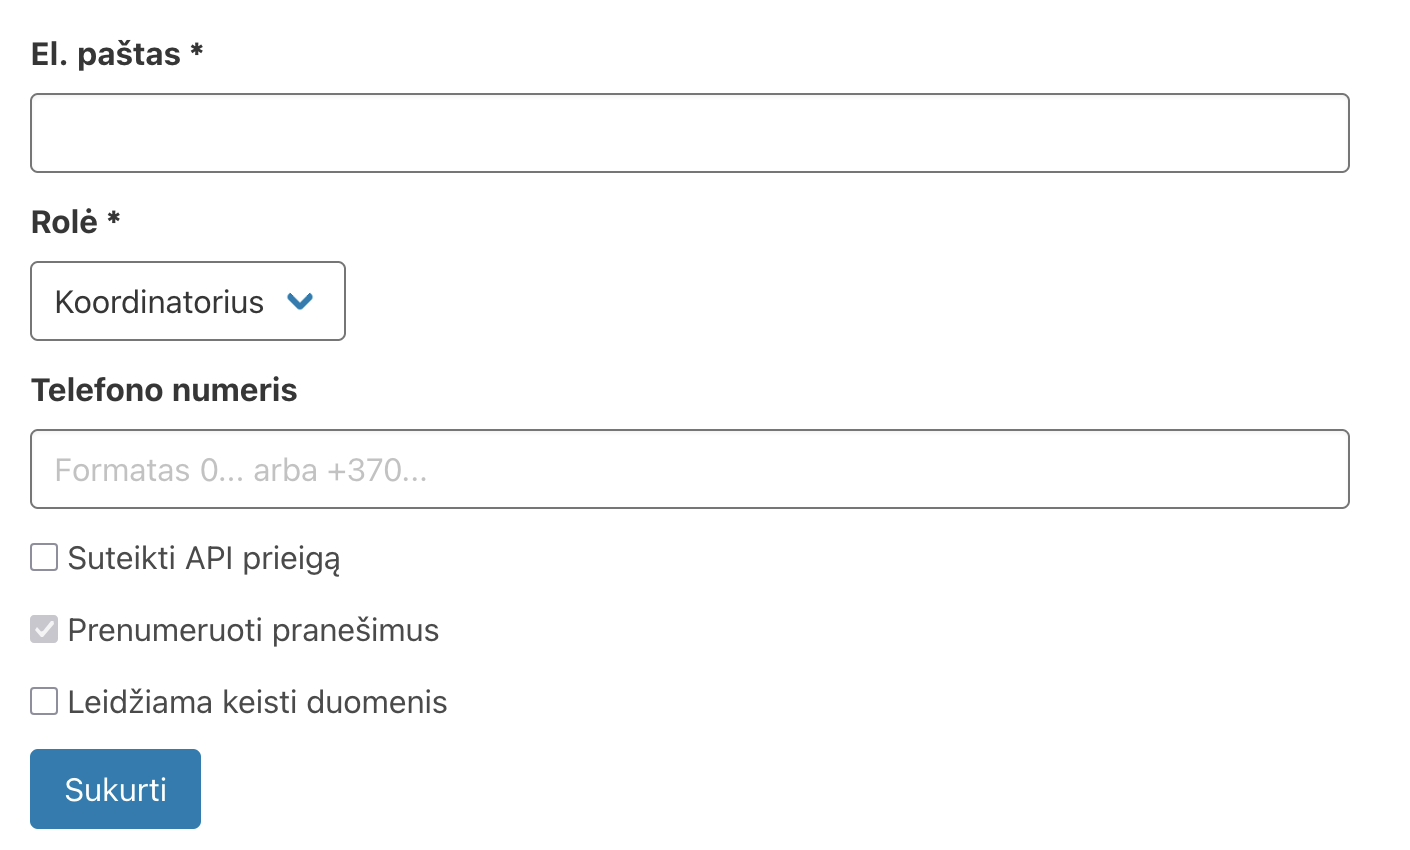
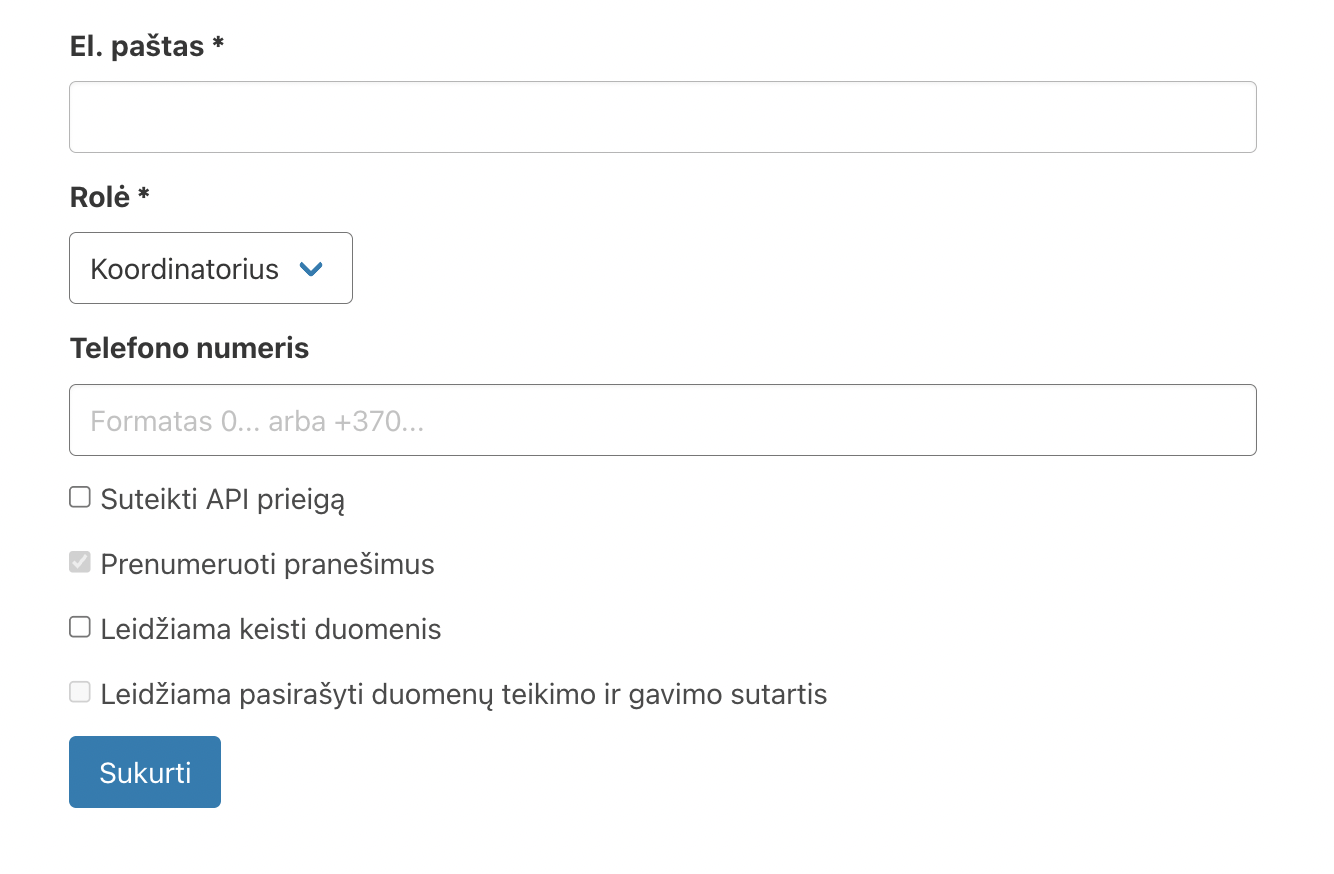
2016: Document Project permissions based on VIISP authorization

diff --git a/vadovas/katalogas.rst b/vadovas/katalogas.rst
@@ -382,6 +382,8 @@ Organizacijos rekvizitai
 
 2. Spauskite **[Redaguoti organizaciją]**.
 
+*Pastaba: Šį veiksmą gali atlikti tik koordinatorius, organizacijos vardu prisijungęs per VIISP.*
+
 | |organizacijos_informacija|
 | *26 pav. Organizacijos redagavimo langas*
 
@@ -854,6 +856,19 @@ Duomenų ištekliaus rūšies forma
 
 7. Įsitikinkite, kad įvedėte teisingus duomenis ir spauskite **[Sukurti]**.
 
+Panaudojimo atvejai
+===================
+
+
+| |duomenu_isteklio_panaudojimo_atvejai|
+| Duomenų ištekliaus panaudojimo atvejų sąrašas
+
+Čia matomi visi* panaudojimo atvejai, kurie gauna duomenis iš šio ištekliaus.
+Mygtukas [*Pridėti panaudojimo atvejį*] matomas tik tuo atveju, jeigu turite panaudojimo atvejų, į kurį turite teisę įtraukti šį išteklių.
+Pašalinti galite tik tuos atvejus, kurie neturi sugeneruotų sutarčių.
+Plačiau :ref:`panaudojimo_atvejo_istekliai`
+
+*- Kuriuos turite teisę peržiūrėti. Apie teises skaitykite čia :ref:`panaudojimo_atvejo_perziura`
 
 Duomenų rinkinio forma
 **********************
@@ -1724,6 +1739,73 @@ Plano patvirtinimas organizacijos vardu
 Panaudojimo atvejai
 *******************
 
+.. _panaudojimo_atveju_sarasas:
+
+Panaudojimo atvejų sąrašas
+==========================
+
+Šiame sąraše galite matyti visus panaudojimo atvejus, kurie atitinka bent vieną iš šių kriterijų:
+
+- Yra vieši ir patvirtinti
+- Yra sukurti Jūsų vardu (Panaudojimo atvejo iniciatorius yra Fizinis asmuo)
+- Panaudojimo atvejo duomenų gavėjas yra organzacija, kurią jūs atstovaujate
+- Panaudojimo atvejo duomenų teikėjų sąraše yra organizacija, kurią jūs atstovaujate.
+
+| |panaudojimo_atveju_sarasas|
+| *Panaudojimo atvejų sąrašas*
+
+.. _panaudojimo_atvejo_kurimas:
+
+Panaudojimo atvejo kūrimas
+==========================
+
+
+| |panaudojimo_atvejo_forma|
+| *Panaudojimo atvejo kūrimo forma*
+
+Panaudojimo atvejus kurti gali visi prisijungę naudotojai. 
+
+**Pastaba**: Laukas *[Panaudojimo atvejo iniciatorius]* matomas tik naudotojui, prisijungusiam per VIISP, kaip įgaliotam organizacijos atstovui, turinčiam teises sudaryti sutartis.
+Kitu atveju panaudojimo atveju organizacijos pasirinkti ir sudaryti sutarčių nebus galima.
+
+.. _panaudojimo_atvejo_perziura:
+
+Panaudojimo atvejo peržiūra
+===========================
+
+
+| |panaudojimo_atvejo_perziura|
+| *Panaudojimo atvejo langas*
+
+Panaudojimo atvejį galima peržiūrėti tik jeigu jis matomas viešai ir yra patvirtintas, 
+arba jeigu esate panaudojimo atvejo duomenų gavėjo arba teikėjo organizacijos atstovas.
+
+.. _panaudojimo_atvejo_redagavimas:
+
+Panaudojimo atvejo redagavimas
+==============================
+
+Panaudojimo atvejį redaguoti gali tik duomenų gavėjo organizacijos atstovas, organizacijos vardu prisijungęs per VIISP,
+turintis sutarčių pasirašymo teises.
+Keisti panaudojimo atvejo iniciatoriaus po panaudojimo atvejo sukūrimo - negalima.
+Negalima redaguoti panaudojimo atvejo, kuris turi sugeneruotų sutarčių.
+
+.. _panaudojimo_atvejo_istekliai:
+
+Panaudojimo atvejo duomenų ištekliai
+====================================
+
+| |panaudojimo_atvejo_duomenu_istekliai|
+| Panaudojimo atvejo duomenų išteklių sąrašas
+
+Šiame lange matomi visi duomenų ištekliai, iš kurių gaunami duomenys pagal pateiktą panaudojimo atvejį.
+Pridėti ir pašalinti duomenų išteklių prie/iš panaudojimo atvejo gali tik:
+
+- jo kūrėjas, jeigu panaudojimo atvejo iniciatorius Fizinis asmuo.
+- organizacijos atstovas, jeigu panaudojimo atvejo iniciatorius organizacija.
+
+Sugeneravus sutartis, pridėti ir pašalinti išteklių nebegalima.
+
 
 .. _sutartys:
 
@@ -1735,7 +1817,7 @@ Taip pat, automatiškai sukurti sutarties dokumentus, juos peržiūrėti, atsisi
 ir įkelti.
 
 **Pastaba:** Sutartys yra sudaromos atskirai su kiekviena pasirinktų duomenų
-šaltinių organizacija. *Pavyzdžiui:* pasirinkus tris duomenų rinkinius iš tos
+išteklių organizacija. *Pavyzdžiui:* pasirinkus tris duomenų rinkinius iš tos
 pačios organizacijos bus sukurta viena sutartis.
 
 
@@ -1744,6 +1826,7 @@ Sutarčių sąrašo peržiūra
 
 Sutarčių sąrašo formoje matysite visas sukurtas panaudojimo atvejo sutartis. Taip pat, kiekvienos
 sutarties duomenis teikiančią organizaciją, sutarties būseną ir paskutinį duomenų atnaujinimo laiką.
+Sutartis peržiūrėti gali tik teikiančios ir gaunančios organizacijos atstovai. Teikiančios organizacijos atstovas mato tik savo sutartis.
 
 | |image_panaudojimoatvejai_sutartys_1|
 | *Sutarčių sąrašo peržiūra*
@@ -1769,6 +1852,8 @@ Sutarties kūrimas
 
 Kurti sutartis (sutarties įrašus, kuriems vėliau bus galima kurti sutarties
 dokumentus) galima paspaudus mygtuką "Generuoti sutartis" dešiniajame viršutiniame kampe.
+Šį veiksmą gali atlikti tik gavėjo organizacijos atstovas, organizacijos vardu prisijungęs per VIISP,
+bei turintis sutarčių pasirašymo teises.
 
 Sutartys bus sukurtos kiekvienai organizacijai atskirai. Atsidariusioje formoje bus galima
 pasirinkti norimus leidimus iš kiekvieno organizacijos duomenų rinkinio.
@@ -1808,6 +1893,8 @@ Sutarties dokumento kūrimas ir pasirašytos sutarties įkėlimas
 ~~~~~~~~~~~~~~~~~~~~~~~~~~~~~~~~~~~~~~~~~~~~~~~~~~~~~~~~~~~~~
 
 Kurti arba įkelti pasirašytą sutartį galima spaudžiant mygtuką dešiniajame viršutiniame kampe.
+Šį veiksmą gali atlikti tik gavėjo ir teikėjo organizacijos atstovai, organizacijos vardu prisijungę per VIISP
+ir turintys sutarčių pasirašymo teises.
 
 Mygtuko veiksmas priklauso nuo sutarties būsenos:
 
@@ -1818,6 +1905,8 @@ Mygtuko veiksmas priklauso nuo sutarties būsenos:
 Sutarties *PDF* failo generavimas
 ~~~~~~~~~~~~~~~~~~~~~~~~~~~~~~~~~
 
+Šį veiksmą atlikti gali tik gavėjo organizacijos atstovas, organizacijos vardu prisijungęs per VIISP,
+turintis sutarčių pasirašymo teises.
 Prieš generuojant sutartį (paspaudus *„Generuoti sutartį“*), atvaizduojama forma su šablono pasirinkimu,
 bei papildoma informacija, kuri gali būti įtraukta į sutarties turinį, pavyzdžiui: papildomos sąlygos.
 Šioje formoje paspaudus mygtuką generuoti - bus sugeneruoti trys failai:
@@ -1830,6 +1919,15 @@ Sutarties *PDF* failo generavimo šablonai (*MD*)
 
 Kiekviena organizacija gali turėti savo sutarčių šabloną arba naudoti numatytąjį. 
 Šablonų administravimą atlieką sistemos administratorius.
+
+
+.. _klientai:
+
+Klientai
+========
+
+Klientus peržiūrėti gali tik gavėjo organizacijos atstovai.
+Klientus redaguoti gali tik gavėjo organizacijos atstovai, organizacijos vardu prisijungę per VIISP.
 
 .. _statistika:
 
@@ -2252,7 +2350,11 @@ Slaptažodis privalo būti saugus. (Daugiau: `Sąvokos <#naudojami-terminai-ir-s
 .. |teises_aprasymas| image:: /static/katalogas/okot/teises_aprasymas.png
 .. |dok_failai| image:: /static/katalogas/okot/dok_failai.png
 .. |dok_nuoroda| image:: /static/katalogas/okot/dok_nuoroda.png
-
+.. |panaudojimo_atvejo_forma| image:: /static/katalogas/okot/panaudojimo_atvejo_forma.png
+.. |panaudojimo_atveju_sarasas| image:: /static/katalogas/okot/panaudojimo_atveju_sarasas.png
+.. |panaudojimo_atvejo_perziura| image:: /static/katalogas/okot/panaudojimo_atvejo_perziura.png
+.. |duomenu_isteklio_panaudojimo_atvejai| image:: /static/katalogas/okot/duomenu_isteklio_panaudojimo_atvejai.png
+.. |panaudojimo_atvejo_duomenu_istekliai| image:: /static/katalogas/okot/panaudojimo_atvejo_duomenu_istekliai.png
 
 .. _objektas: https://ivpk.github.io/dsa/modelis.html#objektas
 .. _brandos lygis: https://ivpk.github.io/dsa/branda.html
